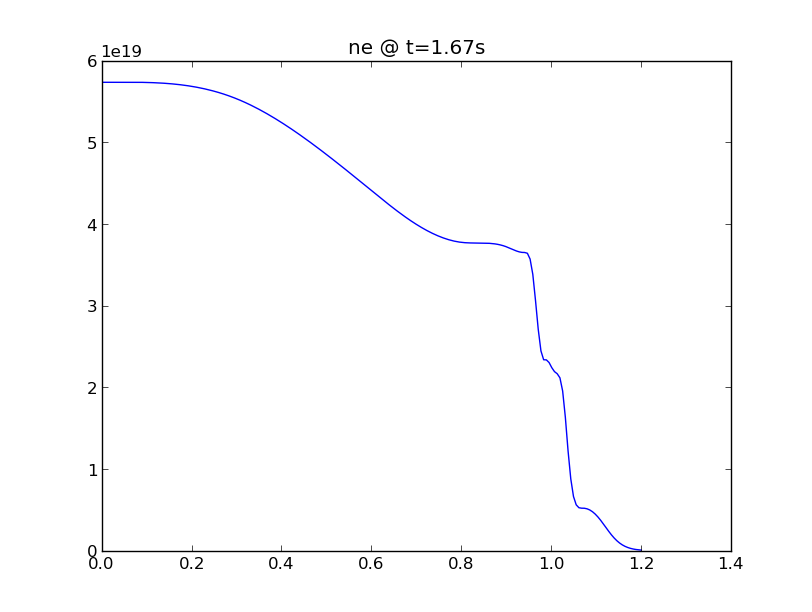
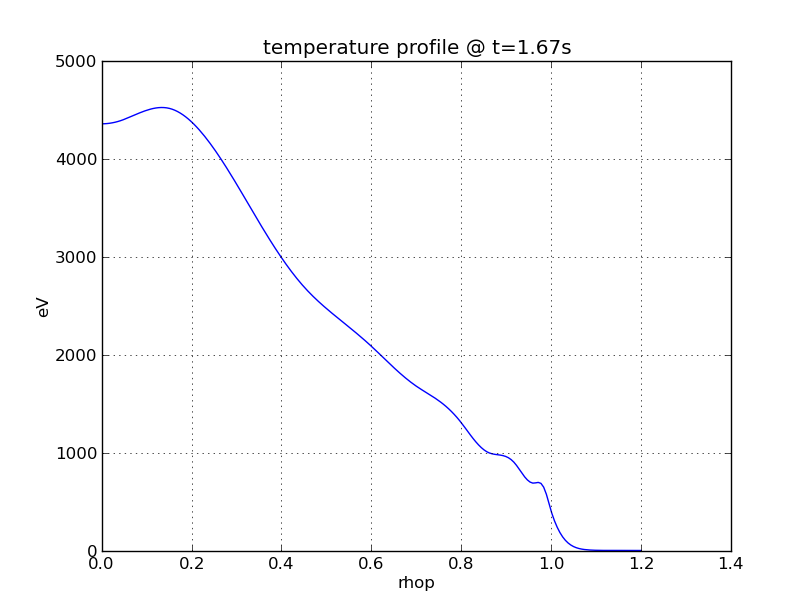
added more sophisticated 2d example, some more fixes to docs

diff --git a/documentation/index.html b/documentation/index.html
@@ -3,9 +3,14 @@
   <TITLE>AUG python libraries</TITLE>
   <meta content="text/html; charset=iso-8859-1" http-equiv="Content-Type">
   <style type="text/css">
+  
+  body {
+  	width:70%;
+  	min-width:60em;
+  }
   pre {
   	margin:2em;
-  	padding:0.75em;
+  	padding:1em;
   	background-color: #eef;
   	width:50em;
   }
@@ -29,12 +34,20 @@
   	p.style.display = (p.style.display == "block") ? "none" : "block";
   	return false;
   }
+  function randomiseQa() {
+  	p = document.getElementById('sshpre');
+	num = Math.round(Math.random()*13+1);
+	num = (num > 9) ? num.toString() : '0' + num.toString();
+	p.innerHTML = 'ssh qa'+num
+  	return false;  	
+  }
   </script>
 </head>
 
-<body onload="toggleExplanation()">
+<body onload="toggleExplanation(); randomiseQa()">
 <h1>Python libraries to handle ASDEX Upgrade shotfiles</h1>
-Contents
+This Python library wraps around IPP's libddww to provide pythonic access to AUG shotfiles.
+<h3>Contents</h3>
 <ol>
 	<li><a href="#prelim">Preliminary commands</a></li>
 	<li><a href="#usage">Usage</a></li>
@@ -60,6 +73,8 @@ module load python27/basic
 <h2 id="usage">Usage</h2>
 <div>
 	The following example will load the total NBI power from the TOT shotfile and display a simple plot.
+<h3>Code</h3>
+
 	<pre>
 <span class="pycomments">#!/usr/bin/env python</span>
 <span class="pycomments"># line above sets the Python interpreter</span>
@@ -102,8 +117,10 @@ ipython</pre>
 <img src="example.png" />
 
 <p>
-	Another example for a 2D signal:
+	Another, more sophisticated example for a 2D signal (signal group):
 </p>
+<h3>Code</h3>
+
 	<pre>
 <span class="pycomments">#!/usr/bin/env python</span>
 <span class="pycomments"># line above sets the Python interpreter</span>
@@ -114,10 +131,13 @@ import dd 					<span class="pycomments"># load latest (!) dd library</span>
 # version from /afs/ipp/aug/ads-diags/common/python/lib</span>
 
 ida = dd.shotfile('IDA', 29761) 		<span class="pycomments"># instatiate and open shotfile</span>
-ne = ida('ne') 					<span class="pycomments"># grab electron density</span>
+Te = ida('Te') 					<span class="pycomments"># grab electron temperature</span>
 ida.close()					<span class="pycomments"># close shotfile (optional)</span>
-plt.plot(ne.area[1000], ne.data[1000]) 		<span class="pycomments"># create plot</span>
-plt.title('ne @ t=%3.2fs'%ne.time[1000])
+plt.plot(Te.area[1000], Te.data[1000]) 		<span class="pycomments"># create plot</span>
+plt.title('%s @ t=%3.2fs'%(Te.description, Te.time[1000]))
+plt.ylabel(Te.unit)
+plt.xlabel(Te.area.name)
+plt.grid('on')
 plt.show() 					<span class="pycomments"># show plot</span></pre>
 <h3>Result</h3>
 
@@ -125,7 +145,7 @@ plt.show() 					<span class="pycomments"># show plot</span></pre>
 
 <h2 id="more">More documentation</h2>
 <p>
-	For most use cases the above scenario can easily be adapted. If you find yourself in need of more complex functions, you can take a look at the <a href="html/classdd_1_1shotfile.html">Doxygen-generated documentation</a>. This can especially useful when accessing shotfiles that deviate from the standard in some way (e.g. unusual index ordering in signal groups, missing relations to area or time bases, etc.)
+	For most use cases the above scenario can easily be adapted. If you find yourself in need of more complex functions, you can take a look at the <a href="html/classdd_1_1shotfile.html">Doxygen-generated documentation</a>. This can especially useful when accessing shotfiles that deviate from the standard in some way (e.g. unusual index ordering in signal groups, missing relations to area or time bases, etc.). There you also find functions that are useful for interactive usage, e.g. for listing all available objects.
 </p>
 
 

diff --git a/documentation/html/ddwwansic8_8h_source.html b/documentation/html/ddwwansic8_8h_source.html
@@ -273,7 +273,7 @@ var searchBox = new SearchBox("searchBox", "search",false,'Search');
 </div><!-- fragment --></div><!-- contents -->
 <!-- start footer part -->
 <hr class="footer"/><address class="footer"><small>
-Generated on Fri Apr 25 2014 17:01:07 for pyddww by &#160;<a href="http://www.doxygen.org/index.html">
+Generated on Fri Apr 25 2014 17:33:42 for pyddww by &#160;<a href="http://www.doxygen.org/index.html">
 <img class="footer" src="doxygen.png" alt="doxygen"/>
 </a> 1.8.1.2
 </small></address>

diff --git a/documentation/html/classdd_1_1shotfile-members.html b/documentation/html/classdd_1_1shotfile-members.html
@@ -135,7 +135,7 @@ var searchBox = new SearchBox("searchBox", "search",false,'Search');
 </table></div><!-- contents -->
 <!-- start footer part -->
 <hr class="footer"/><address class="footer"><small>
-Generated on Fri Apr 25 2014 17:01:07 for pyddww by &#160;<a href="http://www.doxygen.org/index.html">
+Generated on Fri Apr 25 2014 17:33:42 for pyddww by &#160;<a href="http://www.doxygen.org/index.html">
 <img class="footer" src="doxygen.png" alt="doxygen"/>
 </a> 1.8.1.2
 </small></address>

diff --git a/documentation/html/md__r_e_a_d_m_e.html b/documentation/html/md__r_e_a_d_m_e.html
@@ -83,7 +83,7 @@ var searchBox = new SearchBox("searchBox", "search",false,'Search');
 </div></div><!-- contents -->
 <!-- start footer part -->
 <hr class="footer"/><address class="footer"><small>
-Generated on Fri Apr 25 2014 17:01:07 for pyddww by &#160;<a href="http://www.doxygen.org/index.html">
+Generated on Fri Apr 25 2014 17:33:42 for pyddww by &#160;<a href="http://www.doxygen.org/index.html">
 <img class="footer" src="doxygen.png" alt="doxygen"/>
 </a> 1.8.1.2
 </small></address>

diff --git a/documentation/html/functions.html b/documentation/html/functions.html
@@ -152,7 +152,7 @@ var searchBox = new SearchBox("searchBox", "search",false,'Search');
 </div><!-- contents -->
 <!-- start footer part -->
 <hr class="footer"/><address class="footer"><small>
-Generated on Fri Apr 25 2014 17:01:07 for pyddww by &#160;<a href="http://www.doxygen.org/index.html">
+Generated on Fri Apr 25 2014 17:33:42 for pyddww by &#160;<a href="http://www.doxygen.org/index.html">
 <img class="footer" src="doxygen.png" alt="doxygen"/>
 </a> 1.8.1.2
 </small></address>

diff --git a/documentation/html/functions_func.html b/documentation/html/functions_func.html
@@ -152,7 +152,7 @@ var searchBox = new SearchBox("searchBox", "search",false,'Search');
 </div><!-- contents -->
 <!-- start footer part -->
 <hr class="footer"/><address class="footer"><small>
-Generated on Fri Apr 25 2014 17:01:07 for pyddww by &#160;<a href="http://www.doxygen.org/index.html">
+Generated on Fri Apr 25 2014 17:33:42 for pyddww by &#160;<a href="http://www.doxygen.org/index.html">
 <img class="footer" src="doxygen.png" alt="doxygen"/>
 </a> 1.8.1.2
 </small></address>

diff --git a/documentation/html/annotated.html b/documentation/html/annotated.html
@@ -94,7 +94,7 @@ var searchBox = new SearchBox("searchBox", "search",false,'Search');
 </div><!-- contents -->
 <!-- start footer part -->
 <hr class="footer"/><address class="footer"><small>
-Generated on Fri Apr 25 2014 17:01:07 for pyddww by &#160;<a href="http://www.doxygen.org/index.html">
+Generated on Fri Apr 25 2014 17:33:42 for pyddww by &#160;<a href="http://www.doxygen.org/index.html">
 <img class="footer" src="doxygen.png" alt="doxygen"/>
 </a> 1.8.1.2
 </small></address>

diff --git a/documentation/html/classes.html b/documentation/html/classes.html
@@ -97,7 +97,7 @@ var searchBox = new SearchBox("searchBox", "search",false,'Search');
 </div><!-- contents -->
 <!-- start footer part -->
 <hr class="footer"/><address class="footer"><small>
-Generated on Fri Apr 25 2014 17:01:07 for pyddww by &#160;<a href="http://www.doxygen.org/index.html">
+Generated on Fri Apr 25 2014 17:33:42 for pyddww by &#160;<a href="http://www.doxygen.org/index.html">
 <img class="footer" src="doxygen.png" alt="doxygen"/>
 </a> 1.8.1.2
 </small></address>

diff --git a/documentation/html/files.html b/documentation/html/files.html
@@ -91,7 +91,7 @@ var searchBox = new SearchBox("searchBox", "search",false,'Search');
 </div><!-- contents -->
 <!-- start footer part -->
 <hr class="footer"/><address class="footer"><small>
-Generated on Fri Apr 25 2014 17:01:07 for pyddww by &#160;<a href="http://www.doxygen.org/index.html">
+Generated on Fri Apr 25 2014 17:33:42 for pyddww by &#160;<a href="http://www.doxygen.org/index.html">
 <img class="footer" src="doxygen.png" alt="doxygen"/>
 </a> 1.8.1.2
 </small></address>

diff --git a/documentation/html/index.html b/documentation/html/index.html
@@ -81,7 +81,7 @@ var searchBox = new SearchBox("searchBox", "search",false,'Search');
 </div><!-- contents -->
 <!-- start footer part -->
 <hr class="footer"/><address class="footer"><small>
-Generated on Fri Apr 25 2014 17:01:07 for pyddww by &#160;<a href="http://www.doxygen.org/index.html">
+Generated on Fri Apr 25 2014 17:33:42 for pyddww by &#160;<a href="http://www.doxygen.org/index.html">
 <img class="footer" src="doxygen.png" alt="doxygen"/>
 </a> 1.8.1.2
 </small></address>

diff --git a/documentation/html/pages.html b/documentation/html/pages.html
@@ -86,7 +86,7 @@ var searchBox = new SearchBox("searchBox", "search",false,'Search');
 </div><!-- contents -->
 <!-- start footer part -->
 <hr class="footer"/><address class="footer"><small>
-Generated on Fri Apr 25 2014 17:01:07 for pyddww by &#160;<a href="http://www.doxygen.org/index.html">
+Generated on Fri Apr 25 2014 17:33:42 for pyddww by &#160;<a href="http://www.doxygen.org/index.html">
 <img class="footer" src="doxygen.png" alt="doxygen"/>
 </a> 1.8.1.2
 </small></address>

diff --git a/documentation/html/classdd_1_1shotfile.html b/documentation/html/classdd_1_1shotfile.html
@@ -815,7 +815,7 @@ in the shotfile. </pre>
 </div><!-- contents -->
 <!-- start footer part -->
 <hr class="footer"/><address class="footer"><small>
-Generated on Fri Apr 25 2014 17:01:07 for pyddww by &#160;<a href="http://www.doxygen.org/index.html">
+Generated on Fri Apr 25 2014 17:33:42 for pyddww by &#160;<a href="http://www.doxygen.org/index.html">
 <img class="footer" src="doxygen.png" alt="doxygen"/>
 </a> 1.8.1.2
 </small></address>
